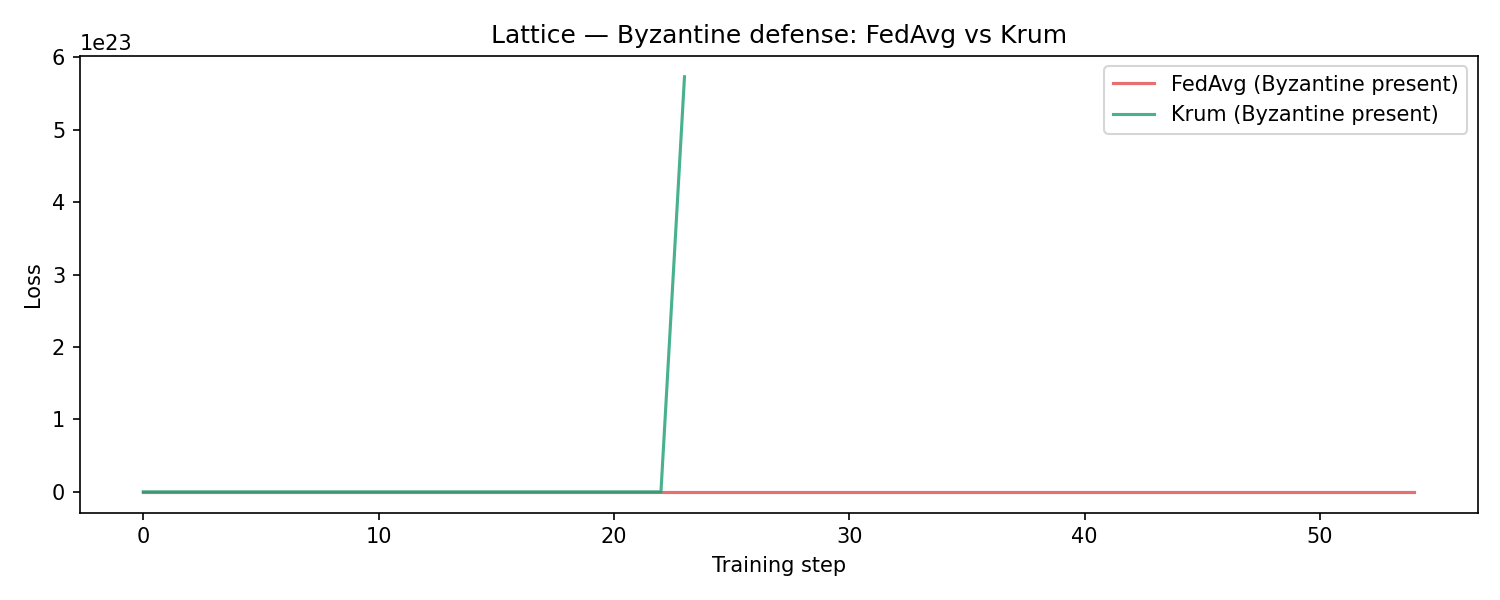
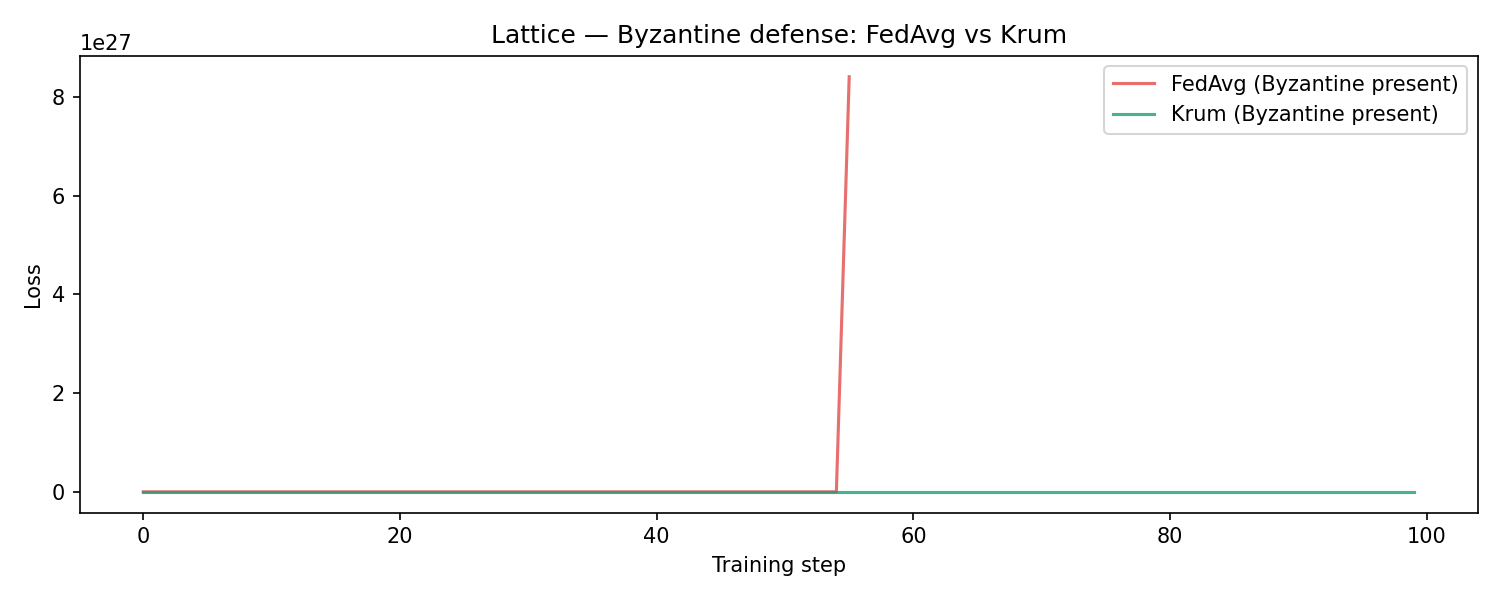
fix: correct demo output, typo fixes

diff --git a/python/simulation/byzantine_demo.py b/python/simulation/byzantine_demo.py
@@ -18,6 +18,9 @@ def one_step(models, step, use_byzantine=True, aggregation='krum'):
     for i, model in enumerate(models):
         idx = torch.randint(0, vocab_size, (4,16))
         targets = torch.randint(0, vocab_size, (4, 16))
+        for p in model.params.values():
+            if p.grad is not None:
+                p.grad.zero_()
         logits = model.forward(idx)
         loss = F.cross_entropy(logits.view(-1, vocab_size), targets.view(-1))
         loss.backward()
@@ -57,7 +60,7 @@ def one_step(models, step, use_byzantine=True, aggregation='krum'):
 
     elif aggregation == "krum":
         aggregated = krum(packets, k = 2)
-    elif aggregated  == "median":
+    elif aggregation == "median":
         aggregated = coordinate_wise_median(packets)
 
     for model in models:

diff --git a/python/aggregation/bft.py b/python/aggregation/bft.py
@@ -57,7 +57,7 @@ def krum(packets, k: int = None) -> dict:
         dists = []
         for j in range(n):
             if i != j:
-                diff = matrix[i] = matrix[j]
+                diff = matrix[i] - matrix[j]
                 dists.append(np.dot(diff, diff))
         dists.sort()
         scores[i] = sum(dists[:k])

diff --git a/python/training/model.py b/python/training/model.py
@@ -39,7 +39,7 @@ class LatticeTransformer:
     def layer_norm(self, x, g):
         mean = x.mean(-1, keepdim = True)
         std = x.std(-1, keepdim = True)
-        return g * (x - mean) / std
+        return g * (x - mean) / (std + 1e-5)
     
     def attention(self, x, Wq, Wk, Wv, Wo):
         B, T, C = x.shape
